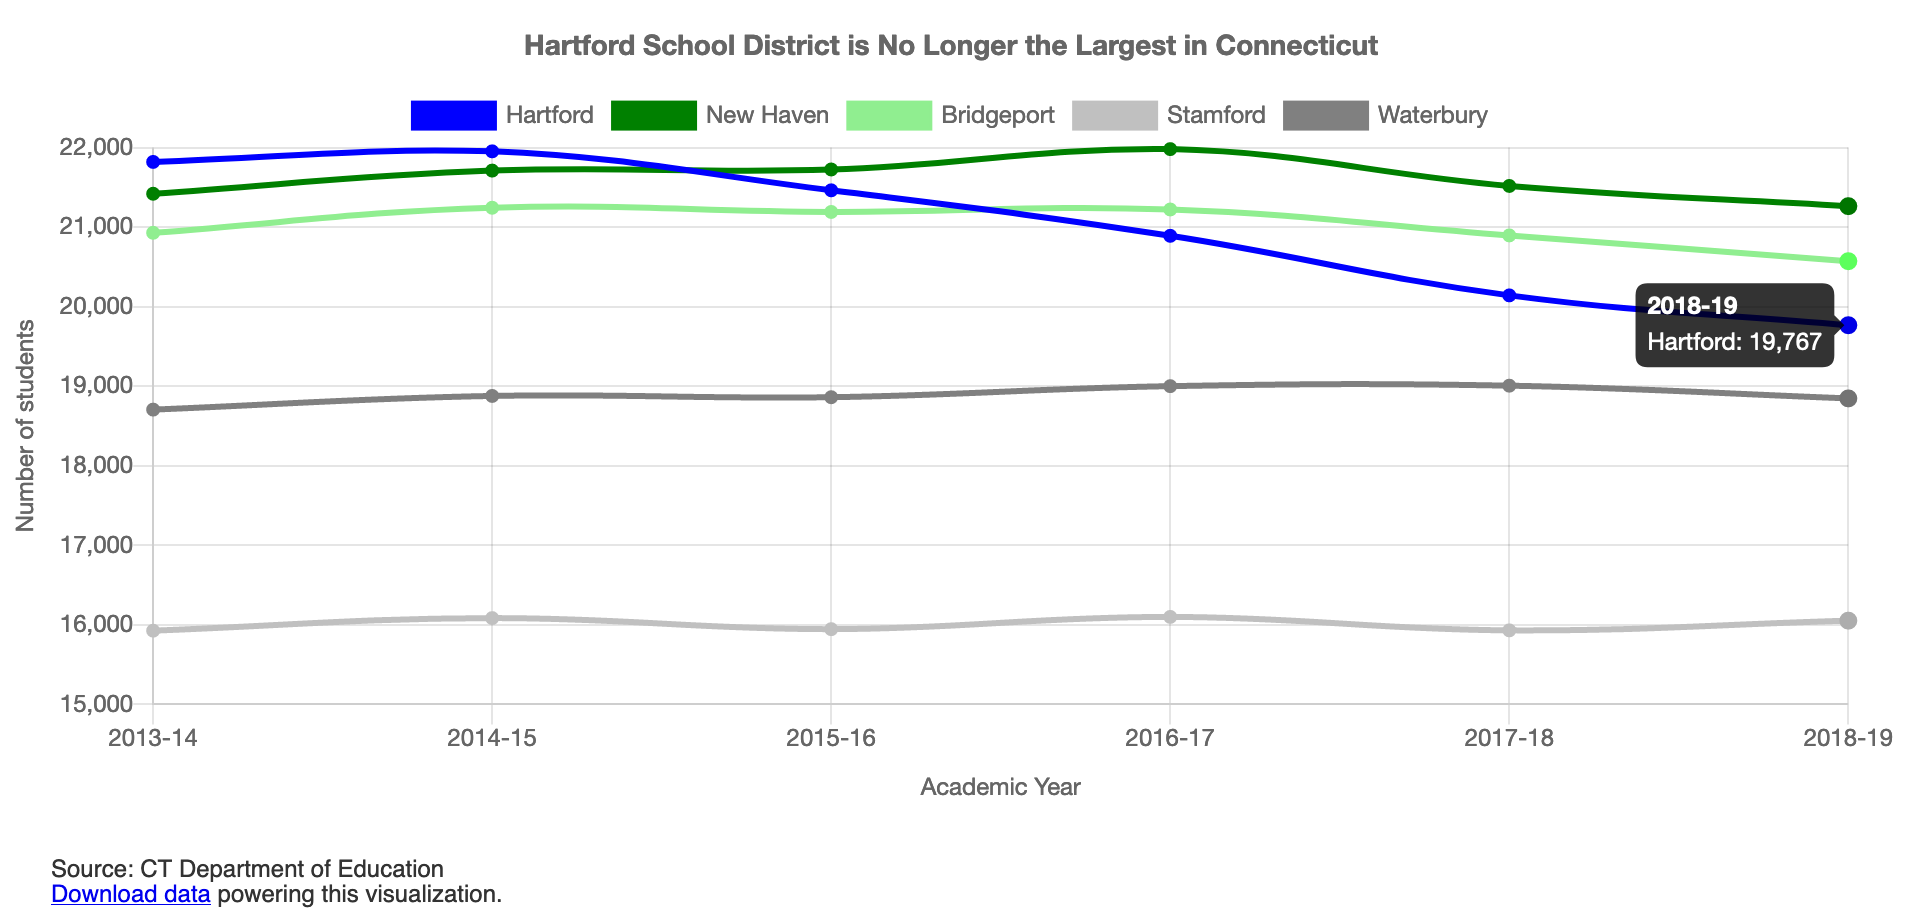
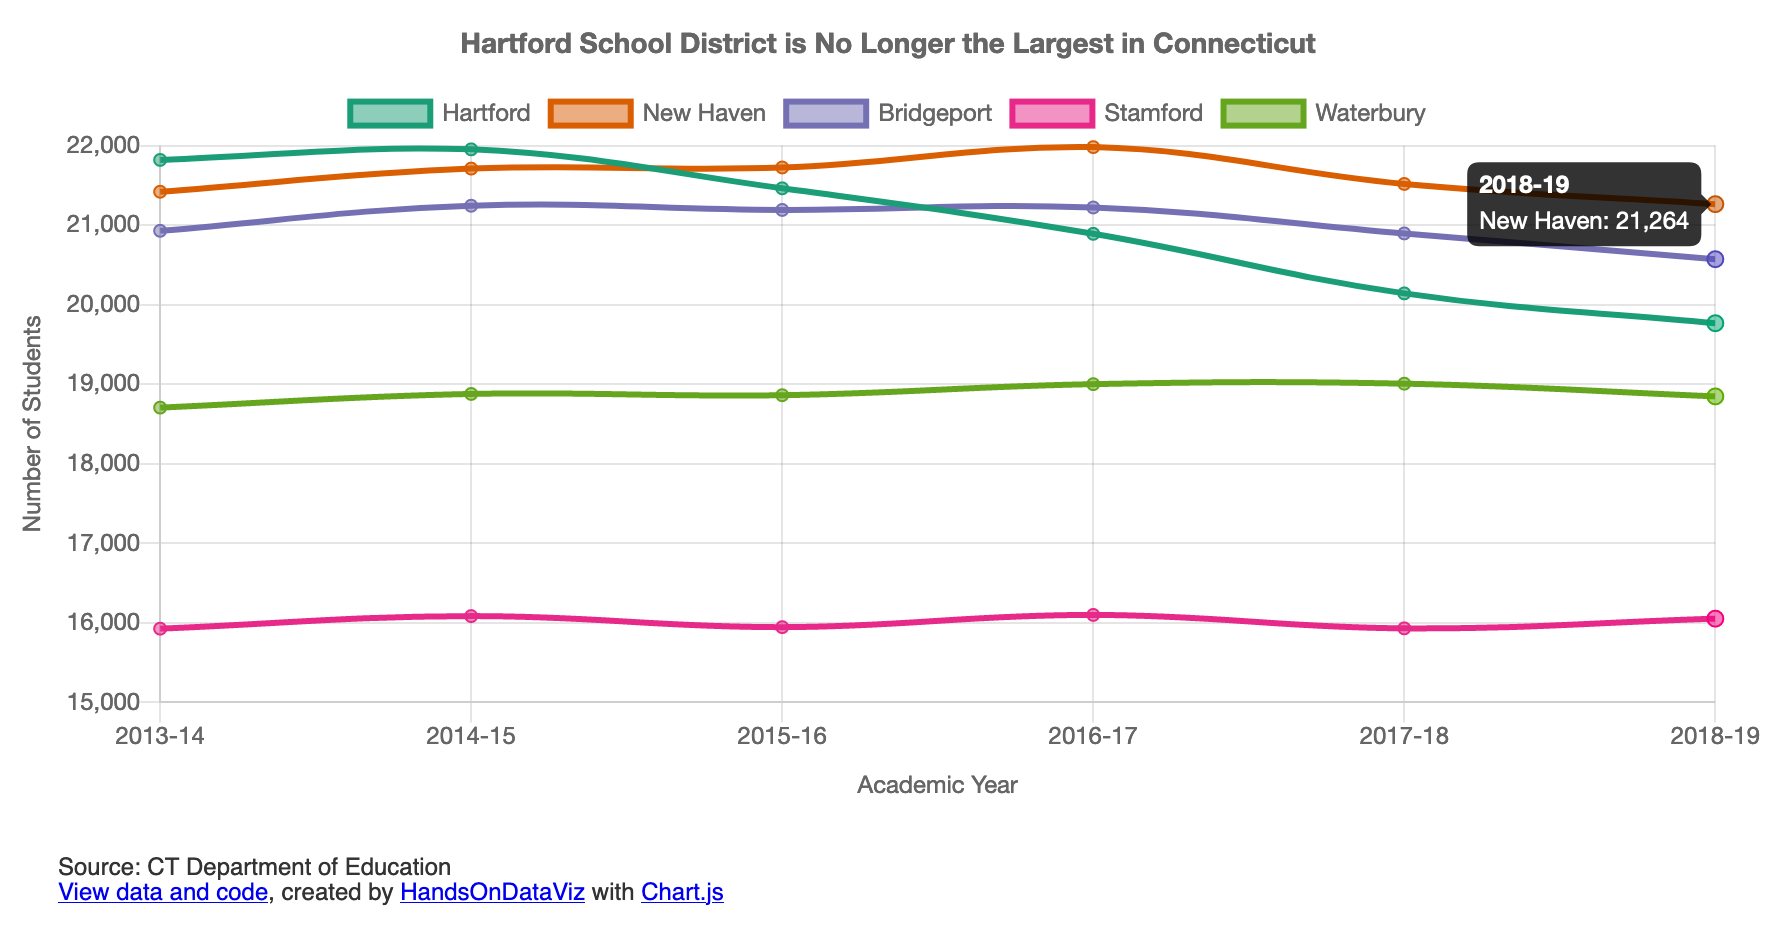
Expand readme, update credits line & screenshot

diff --git a/script.js b/script.js
@@ -3,7 +3,7 @@ var TITLE = 'Hartford School District is No Longer the Largest in Connecticut';
 var X_AXIS = 'Academic Year';  // x-axis label and label in tooltip
 var Y_AXIS = 'Number of Students'; // y-axis label and label in tooltip
 
-var BEGIN_AT_ZERO = false;  // Should x-axis start from 0? `true` or `false`
+var BEGIN_AT_ZERO = false;  // Should y-axis start from 0? `true` or `false`
 
 var SHOW_GRID = true; // `true` to show the grid, `false` to hide
 var SHOW_LEGEND = true; // `true` to show the legend, `false` to hide
@@ -59,6 +59,7 @@ $(document).ready(function() {
               display: SHOW_GRID,
             },
             ticks: {
+              maxTicksLimit: 10,
               callback: function(value, index, values) {
                 return value.toLocaleString();
               }
@@ -74,6 +75,7 @@ $(document).ready(function() {
               display: SHOW_GRID,
             },
             ticks: {
+              maxTicksLimit: 10,
               beginAtZero: BEGIN_AT_ZERO,
               callback: function(value, index, values) {
                 return value.toLocaleString()
@@ -92,7 +94,11 @@ $(document).ready(function() {
         },
         plugins: {
           colorschemes: {
-            scheme: 'brewer.Paired12'
+            /*
+              Replace below with any other scheme from
+              https://nagix.github.io/chartjs-plugin-colorschemes/colorchart.html
+            */
+            scheme: 'brewer.DarkTwo5'
           }
         }
       }

diff --git a/index.html b/index.html
@@ -26,7 +26,9 @@
     <p style="font-family: Helvetica; color: #333; padding: 1em 2em; font-size: 12px">
       Source: CT Department of Education
       <br>
-      <a href="./data.csv">Download data</a> powering this visualization.
+      <a href="https://github.com/HandsOnDataViz/chartjs-line">View data and code</a>,
+      created by <a href="https://handsondataviz.org/">HandsOnDataViz</a>
+      with <a href="https://www.chartjs.org/">Chart.js</a>
     </p>
 
     <script src="script.js"></script>

diff --git a/README.md b/README.md
@@ -8,13 +8,15 @@ https://handsondataviz.github.io/chartjs-line/
 Sample data by CT Department of Education.
 
 ## Create your own
-See chapter 10: Chart.js and Highcharts templates in [Hands-On Data Visualization](https://handsondataviz.org) by Jack Dougherty and Ilya Ilyankou
+See chapter 10: Chart.js and Highcharts templates in [Hands-On Data Visualization](https://handsondataviz.org) by Jack Dougherty and Ilya Ilyankou.
 
 In `data.csv`, each row is a point in time (x-axis). Each column is a new series.
 There can be any number of points in time (rows) and any number of series (columns).
 
 The first column is always labels for the x-axis. Second and all other
 columns are new series (lines), whose label is taken from the first row (header).
+
+You can modify source and credits (lines that appear below the chart) in `index.html`.
 
 In `script.js`, you can customize the values of variables shown in the code snippet below. For more customization, see [Chart.js documentation](https://www.chartjs.org/docs/latest/).
 
@@ -28,6 +30,34 @@ var BEGIN_AT_ZERO = false;  // Should x-axis start from 0? `true` or `false`
 
 var SHOW_GRID = true; // `true` to show the grid, `false` to hide
 var SHOW_LEGEND = true; // `true` to show the legend, `false` to hide
+```
+
+**Colors** are assigned to lines automatically based on a qualitative color scheme
+from [ColorBrewer](https://colorbrewer2.org/). The example contains 5 lines,
+so a color scheme with 5 colors was chosen. Based on your data, you can choose your color
+scheme at the bottom of `script.js` from any of the following:
+https://nagix.github.io/chartjs-plugin-colorschemes/colorchart.html
+
+```javascript
+colorschemes: {
+  /*
+    Replace below with any other color scheme from
+    https://nagix.github.io/chartjs-plugin-colorschemes/colorchart.html
+   */
+  scheme: 'brewer.DarkTwo5'
+}
+```
+
+If you want to **make your Y-axis scale more granular** with more ticks, [consider increasing
+`maxTicksLimit` value](https://github.com/HandsOnDataViz/chartjs-line/blob/master/script.js#L78).
+
+To change how values appear in the tooltip or on x- and y- axes, for example to add a dollar sign `$`
+before monetary values, modify callbacks, such as this:
+
+```javascript
+callback: function(value, index, values) {
+  return `$` + value.toLocaleString();
+}
 ```
 
 ## Why am I not seeing my chart when I open `index.html` in the browser?
